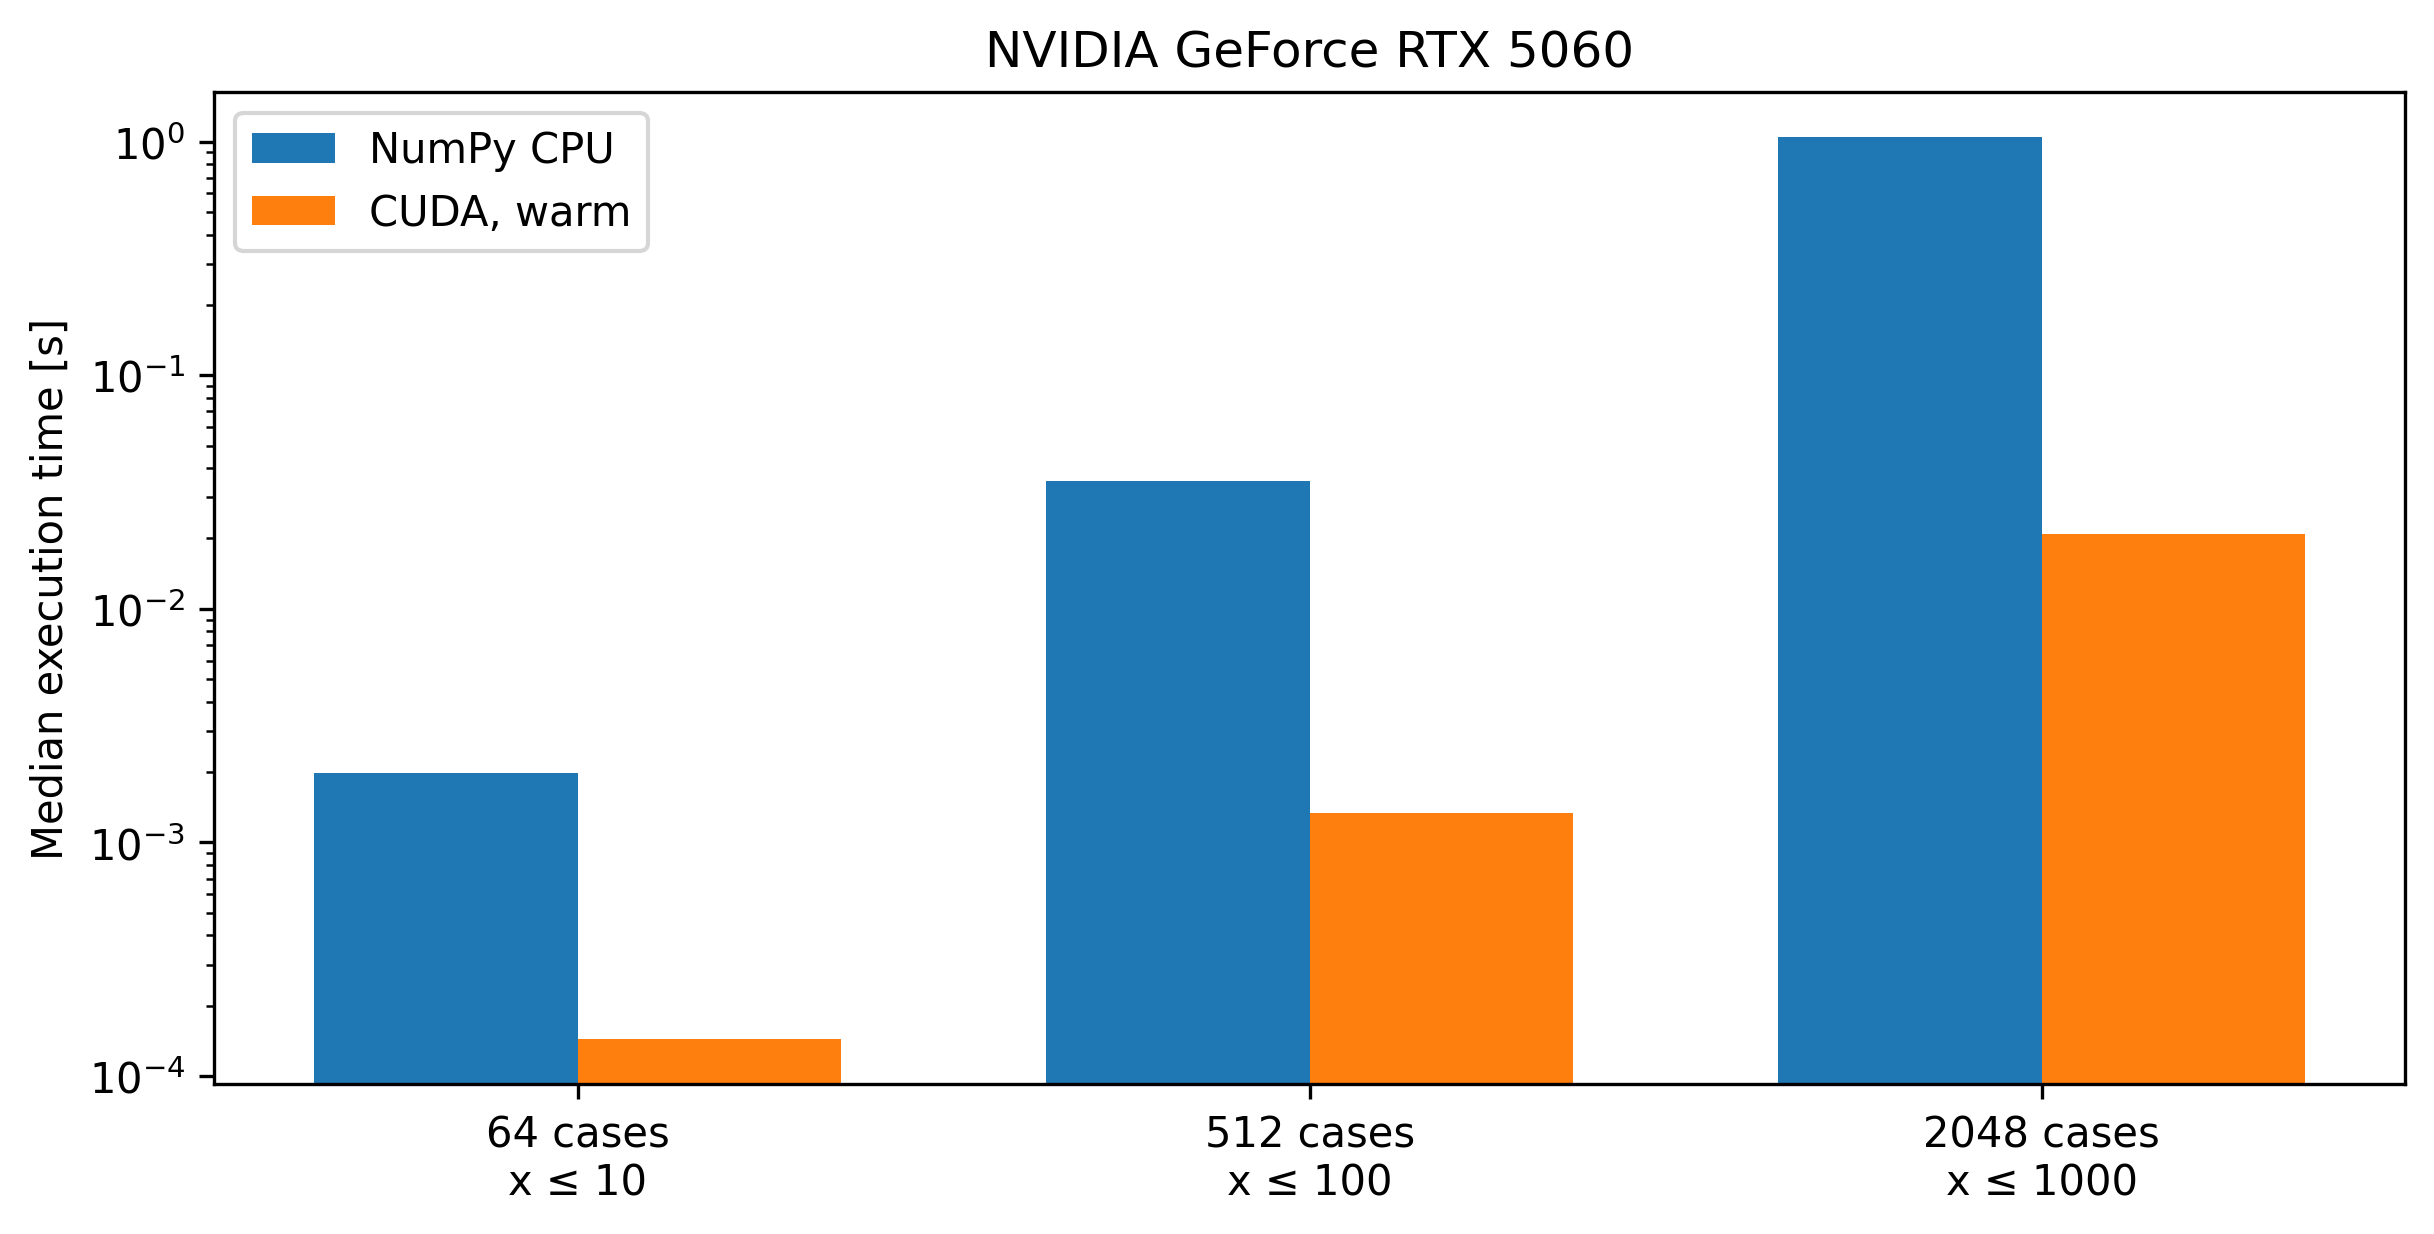
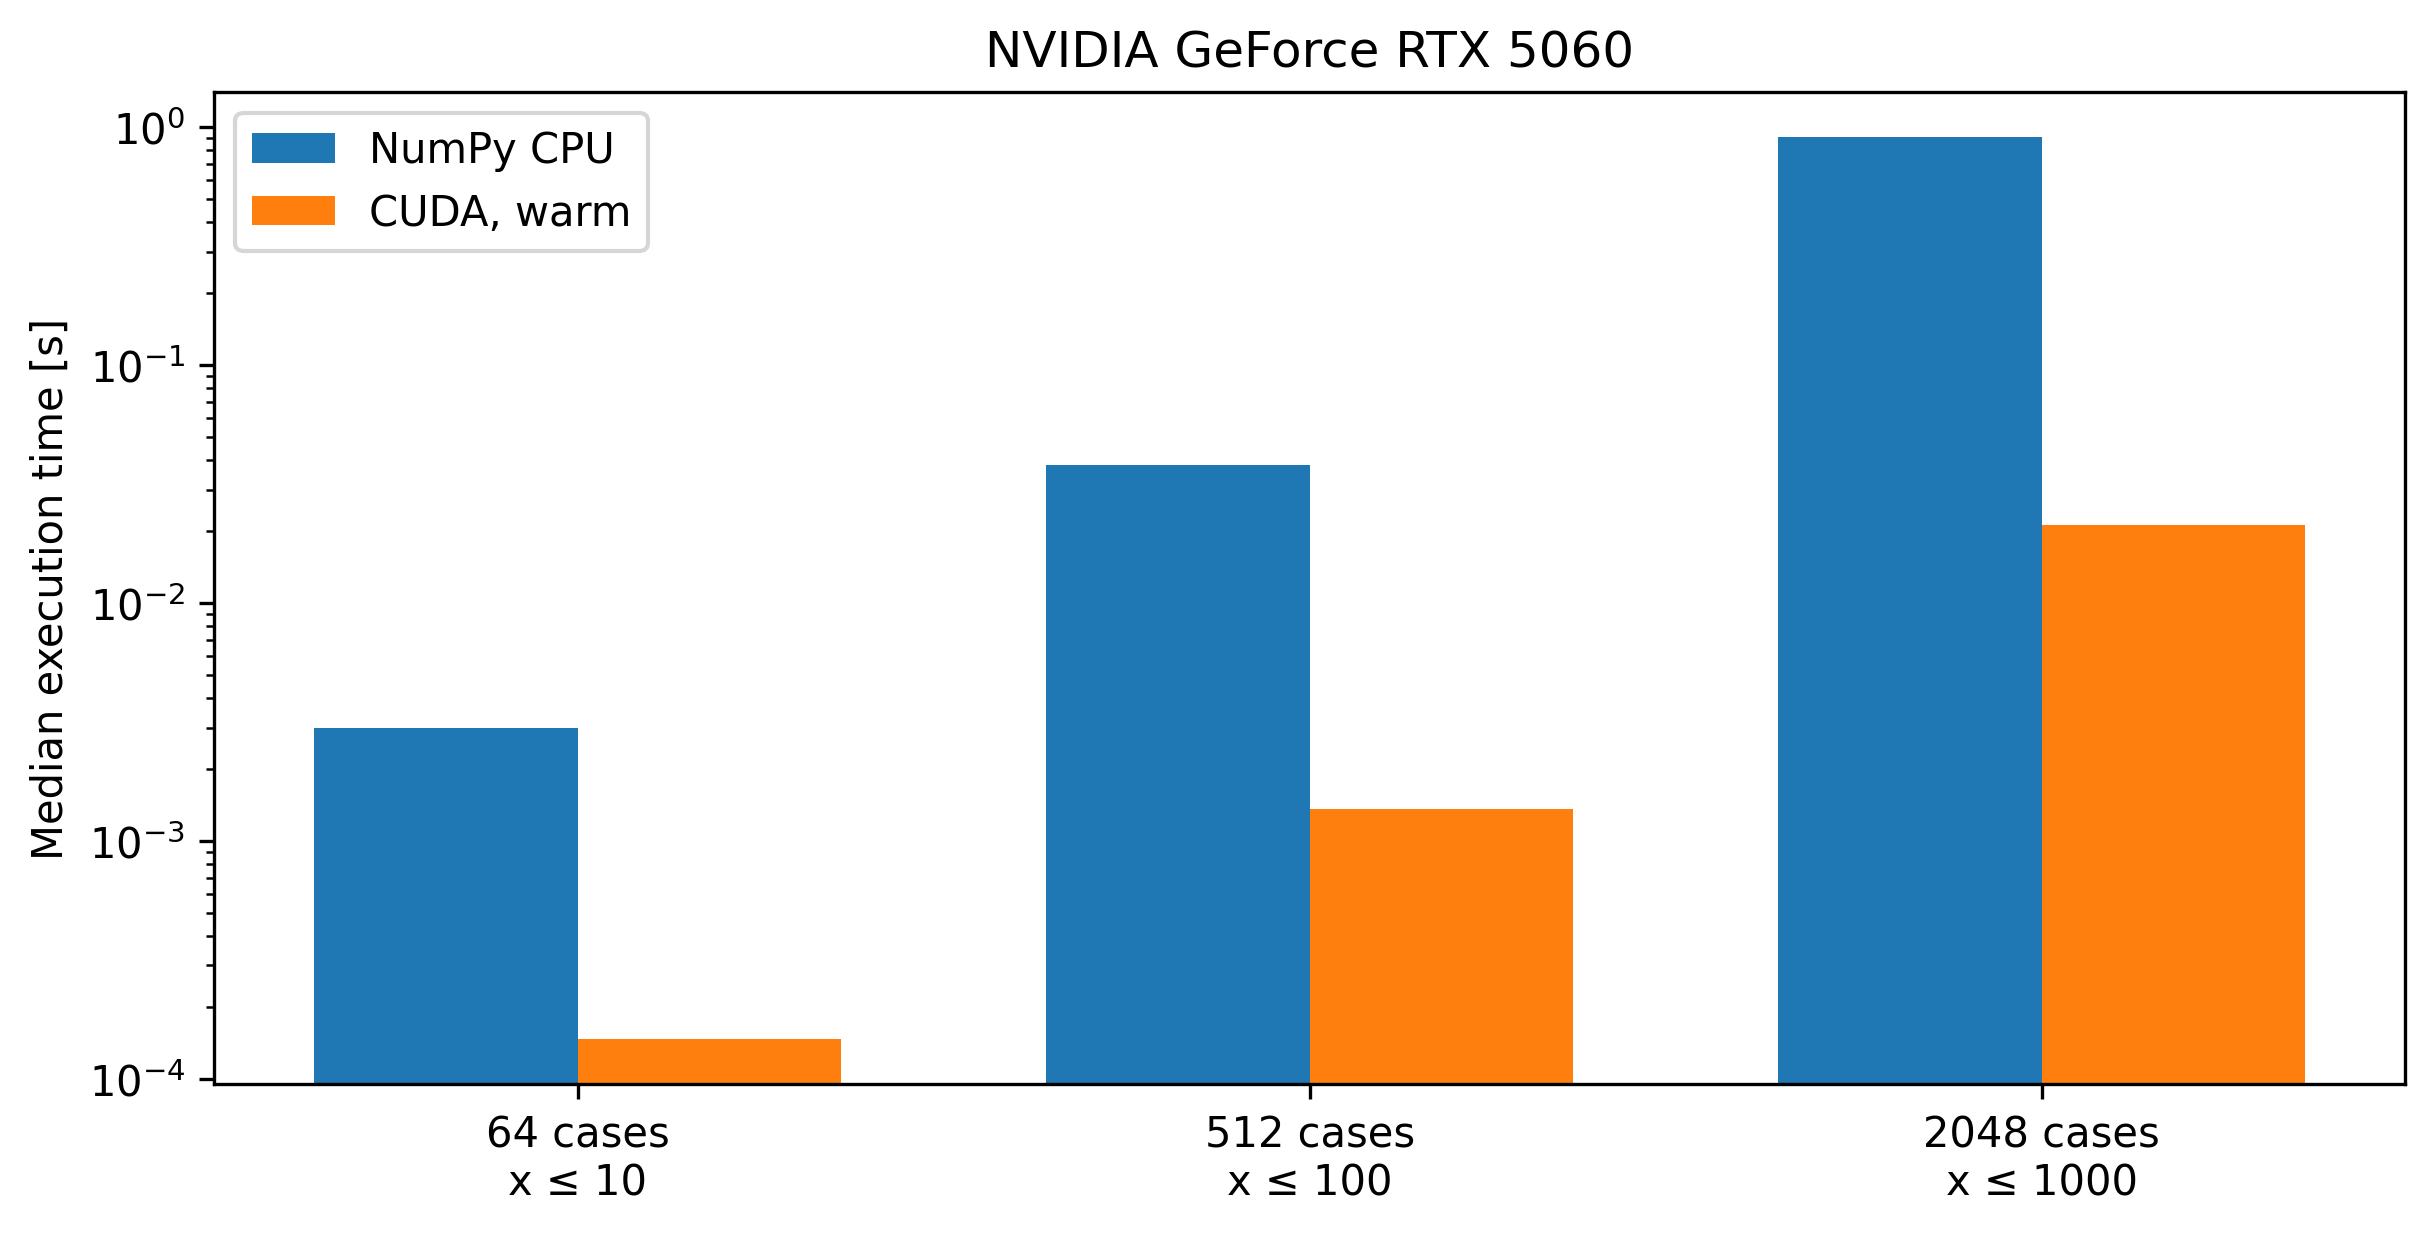
docs(optics): finalize validation and refreshed CUDA evidence

diff --git a/plans/native-optics.md b/plans/native-optics.md
@@ -76,9 +76,9 @@ entries, discrete/resolved/PDF reductions and single/multiple layers.
 - [x] CPU angular scattering, Mueller matrices and Stokes helpers.
 - [x] Warp equivalents and CPU/Warp-CPU/real-CUDA parity.
 - [x] Population optics, path/column helpers on both backends.
-- [ ] Executed spectral, polarization, cloud-depth and CUDA examples with
+- [x] Executed spectral, polarization, cloud-depth and CUDA examples with
       saved compact numerical data; later-feedback usage sketch only.
-- [ ] Google-style SI/shape/domain docstrings, primary citations, guide/API
+- [x] Google-style SI/shape/domain docstrings, primary citations, guide/API
       navigation and numerical/performance validation record.
 - [x] Rayleigh limits, lossless energy balance, extinction=scattering+absorption,
       bounded g; angular integrals recover Csca/g and normalized phase.
@@ -89,9 +89,9 @@ entries, discrete/resolved/PDF reductions and single/multiple layers.
       rtol=1e-8/atol=1e-12. Document scale-aware angular errors near zeros and
       independent absolute checks of weak absorption. Investigate failures,
       never automatically weaken tolerances.
-- [ ] Real CUDA small/medium/large workloads, compilation/transfer/execution
+- [x] Real CUDA small/medium/large workloads, compilation/transfer/execution
       timing separated; no unmeasured speedup claims.
-- [ ] Relevant numerical suites, full required checks, Ruff/mypy, examples,
+- [x] Relevant numerical suites, full required checks, Ruff/mypy, examples,
       documentation/site build, clean wheel installation and offline fixture
       tests with no external Mie solver installed.
 - [ ] Review final diff and evidence, push final branch, then create upstream
@@ -258,3 +258,39 @@ entries, discrete/resolved/PDF reductions and single/multiple layers.
   not a full-suite pass). A replacement full-suite/80%-coverage run now uses
   the frozen final source. Its result remains pending. CPU/CUDA saved example
   refresh and final site/evidence review follow completion of concurrent tests.
+
+## Local completion audit — 2026-11-15
+
+All implementation and local qualification requirements are satisfied. Final
+numerical source is baf393b18. The later evidence commits do not change it.
+
+- Physics/API: CPU and Warp Mie, cross sections, angular/polarization,
+  distribution weights, population reductions, optical depth/transmission and
+  mass opacity are implemented under particula/optics and exercised by 251
+  focused tests on CPU and native CUDA. Reference corpus and independent
+  Bessel/high-precision/angular-integral checks cover through x=10000.
+- Contracts: SI/medium/Stokes conventions, count/volume/PDF weighting,
+  explicitly supplied geometry, validity masks, bounded convergence, numerical
+  failure propagation, tile independence and retained workspace reuse are
+  documented and tested. No aerosol/environment state-changing process added.
+- Dependencies: no PyMieScatt/miepython/mpmath dependency or test import.
+  Clean installed wheel with current declared dependencies passed 251 tests;
+  reference data ships in the wheel and runs offline.
+- Full validation: 10408 passed, 14 skipped, 1 xfailed; 91.36% coverage against
+  80%. Infrastructure 298 passed; examples 235 passed/1 skipped. Whole-tree
+  Ruff, formatting and mypy pass. Earlier interrupted/stale runs are not used
+  as completion evidence.
+- Examples/docs: both optics workloads refreshed on the final package hash;
+  all saved bundles current and figures visually inspected. Native CUDA
+  timings isolate module load, transfer, preparation and synchronized compute.
+  Final site build and rendered structure/link checks pass with zero errors.
+- Packaging: final docs wheel/sdist build and offline source rebuild passed;
+  both isolated documentation installations passed. Delivery artifacts:
+  wheel 4087740 bytes, sdist 3700492 bytes. The public qualification record
+  distinguishes Python coverage from compiled Warp execution evidence.
+- Final diff reviewed: only the optics implementation/evidence/docs and the
+  tested retired-redirect checker correction; no dependency/version/README or
+  unrelated working-tree changes. Upstream base remains a73fa1974.
+
+Remaining: push final evidence, create upstream PR, observe hosted checks and
+resolve actionable review/check failures. Do not merge or publish a release.

diff --git a/docs/contribute/validation/optics/cuda.md b/docs/contribute/validation/optics/cuda.md
@@ -1,10 +1,10 @@
 # CUDA optics qualification
 
-Measured 2026-11-15T15:25:50.621683+00:00 on NVIDIA GeForce RTX 5060 (8 GiB),
+Measured 2026-11-15T15:44:41.266102+00:00 on NVIDIA GeForce RTX 5060 (8 GiB),
 AMD Ryzen AI 9 HX 370 CPU, Python 3.12.12 and Warp 1.11.1.
 Warp reported CUDA Toolkit 12.9 and driver API 13.4. The run used source revision
-`1b9f4f07967d2daaefa93b68eb096572a7683bee` with unchanged package source
[1 lines of base64/hex data omitted]
+`d523321593a5669d8eabc4c421ea77eba543be6a` with unchanged package source
[1 lines of base64/hex data omitted]
 The example source was newly authored; its exact executed bytes, execution
 fingerprint, installed distribution metadata and dependency versions are in
 `website/results/cuda-optics/manifest.json` and `source.py`.
@@ -21,7 +21,7 @@ python scripts/docs_examples.py refresh cuda-optics
 
 Use the selected environment and checkout on PYTHONPATH when reusing another
 worktree's environment. This run used a separate empty Warp cache under
-`XDG_CACHE_HOME=/tmp/optics-example-isolated-cache`. Other validation workloads
+`XDG_CACHE_HOME=/tmp/optics-final-evidence-cache`. Other validation workloads
 had completed before the retained timing run. Background OS load and frequency
 variation were not controlled; this is a local workload measurement, not a
 hardware-wide throughput claim.
@@ -36,11 +36,11 @@ CPU speed claim is made. Raw repetitions are retained in the saved plot data.
 
 | Cases | Maximum x | NumPy median [ms] | CUDA median [ms] | Upload [ms] | Preparation [ms] | Download [ms] |
 | --- | --- | --- | --- | --- | --- | --- |
-| 64 | 10 | 1.987 | 0.144 | 0.4603 | 0.4473 | 0.02318 |
-| 512 | 100 | 35.41 | 1.34 | 0.1529 | 0.1745 | 0.02257 |
-| 2048 | 1000 | 1045 | 20.95 | 0.2598 | 0.4696 | 0.05348 |
+| 64 | 10 | 2.976 | 0.1471 | 0.412 | 0.468 | 0.02611 |
+| 512 | 100 | 37.93 | 1.365 | 0.1483 | 0.2006 | 0.02591 |
+| 2048 | 1000 | 908.1 | 21.23 | 0.2386 | 0.4668 | 0.05286 |
 
-Module compile/cache-load observations [s]: mie=0.6056, angular=0.497, _bulk=0.4513.
+Module compile/cache-load observations [s]: mie=1.567, angular=0.5666, _bulk=0.5394.
 
 ## Numerical qualification
 
@@ -65,8 +65,24 @@ visually inspected. Optical numerical tests additionally cover Warp CPU,
 native CUDA, failures, zero cases, medium normalization, polarization,
 chunk independence and independent angular integrals through x=10000.
 
-## Remaining delivery gates
+## Delivery validation
 
-This record does not establish full-package coverage, clean-wheel validation,
-completion of every input/failure audit, release readiness or PR approval.
-Those gates are tracked separately in the implementation plan and final review.
+Final numerical source is commit `baf393b18`; subsequent commits before this
+measurement only update recorded evidence. Full source tests with native CUDA
+passed: 10,408 passed, 14 skipped, one expected failure, 91.36% total coverage
+(required 80%). Command: `python -m pytest -Werror --cov=particula
+--cov-report=term-missing --cov-fail-under=80`. The report includes Python
+wrappers and tests; Python line coverage does not instrument compiled Warp
+kernel bodies. Device execution is established by the numerical CUDA tests.
+
+The installed-wheel optics suite passed all 251 tests on CPU and native CUDA
+in a separate environment with NumPy 2.5.4, SciPy 1.18.1 and Warp 1.19.0.
+PyMieScatt, miepython and mpmath were absent. The wheel includes offline
+reference fixtures. Documentation bundle verification passed isolated installs
+and an offline source-archive rebuild (210 files, 2,514,813 documentation bytes).
+
+Repository-wide Ruff, formatting and mypy passed. Infrastructure tests passed
+298 tests; example integration passed 235 with one skip. The registered CPU
+example campaign passed, with configured long/CUDA skips; both new optics
+examples were separately refreshed in full on their required devices.
+These results are development qualification, not release or merge approval.
